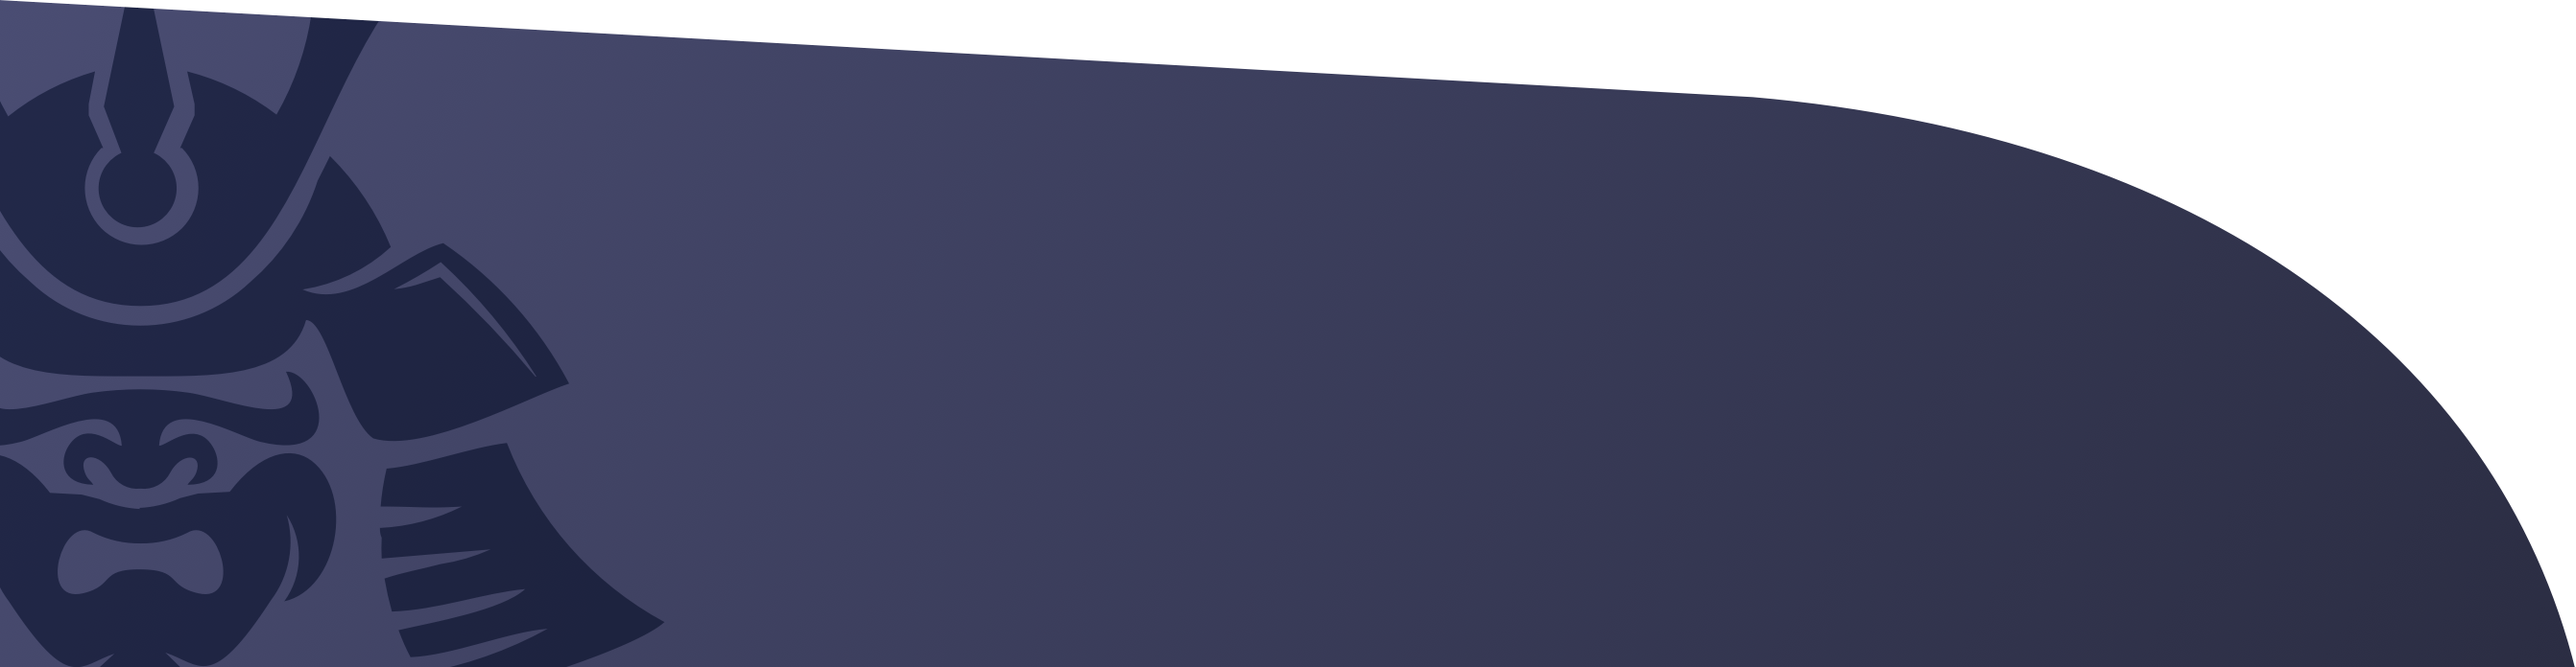
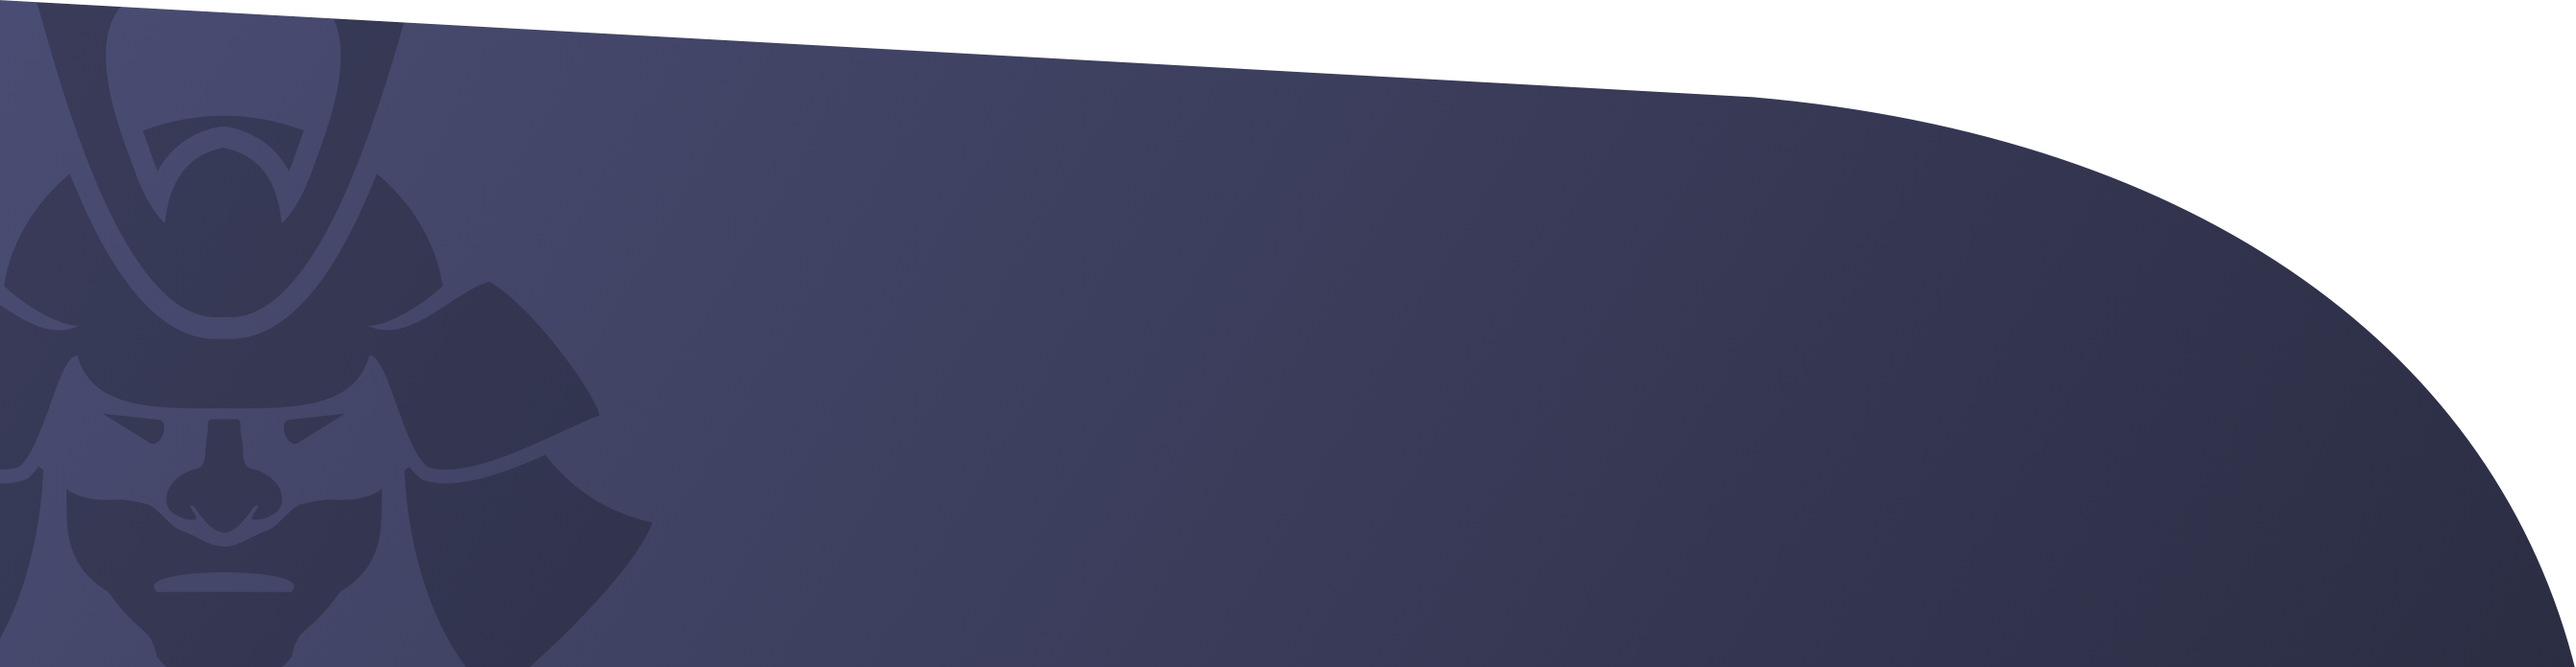
New color scheme applied.

Changed region(s): [[0.0, 0.5431, 0.2783, 1.0], [0.0, 0.0, 0.1855, 0.5129], [0.0, 0.5431, 0.0309, 0.5733]]

diff --git a/index.html b/index.html
@@ -32,7 +32,7 @@
 
     <nav class="navbar navbar-expand-md navbar-light bg-transparent standpoint_navbar p-0">
         <div class="container">
-            <a class="navbar-brand animate__animated animate__fadeIn animate_slower" href="#"><img class="main_logo" alt="Standpoint Mastering logo" src="img/logo.svg"> </a>
+            <a class="navbar-brand animate__animated animate__fadeIn animate_slower" href="#"><img class="main_logo" alt="Standpoint Mastering logo" src="img/STM_Logo_RGB.svg"> </a>
             <button class="navbar-toggler collapsed" type="button" data-toggle="collapse" data-target="#standpointCollapse" aria-controls="navbarSupportedContent" aria-expanded="false" aria-label="Toggle navigation">
                 <span class="icon-bar top-bar"></span>
                 <span class="icon-bar middle-bar"></span>
@@ -285,45 +285,45 @@
                     <div class="row justify-content-center all_works_holder">
                         <div class="col-md-6 col-sm-12 work_outerbox">
                             <div class="work embed-responsive embed-responsive-16by9">
-                                <iframe class="embed-responsive-item" width="100%" height="300" scrolling="no" frameborder="no" allow="autoplay" src="https://w.soundcloud.com/player/?url=https%3A//api.soundcloud.com/tracks/857914621&color=8D99AE&auto_play=false&hide_related=false&show_comments=true&show_user=true&show_reposts=false&show_teaser=true&visual=true"></iframe><div style="font-size: 10px; color: #cccccc;line-break: anywhere;word-break: normal;overflow: hidden;white-space: nowrap;text-overflow: ellipsis; font-family: Interstate,Lucida Grande,Lucida Sans Unicode,Lucida Sans,Garuda,Verdana,Tahoma,sans-serif;font-weight: 100;"><a href="https://soundcloud.com/fabienkamb" title="Fabien Kamb" target="_blank" style="color: #cccccc; text-decoration: none;"></a> · <a href="https://soundcloud.com/fabienkamb/premiere-fabien-kamb-circles-original-mix-low-flow-records" title="PREMIERE: Fabien Kamb - Circles (Original Mix) [LOW FLOW RECORDS]" target="_blank" style="color: #cccccc; text-decoration: none;"></a></div>
+                                <iframe class="soundcloud_thumb embed-responsive-item" width="100%" height="300" scrolling="no" frameborder="no" allow="autoplay" src="https://w.soundcloud.com/player/?url=https%3A//api.soundcloud.com/tracks/857914621&color=8D99AE&auto_play=false&hide_related=false&show_comments=true&show_user=true&show_reposts=false&show_teaser=true&visual=true"></iframe><div style="font-size: 10px; color: #cccccc;line-break: anywhere;word-break: normal;overflow: hidden;white-space: nowrap;text-overflow: ellipsis; font-family: Interstate,Lucida Grande,Lucida Sans Unicode,Lucida Sans,Garuda,Verdana,Tahoma,sans-serif;font-weight: 100;"><a href="https://soundcloud.com/fabienkamb" title="Fabien Kamb" target="_blank" style="color: #cccccc; text-decoration: none;"></a> · <a href="https://soundcloud.com/fabienkamb/premiere-fabien-kamb-circles-original-mix-low-flow-records" title="PREMIERE: Fabien Kamb - Circles (Original Mix) [LOW FLOW RECORDS]" target="_blank" style="color: #cccccc; text-decoration: none;"></a></div>
                             </div>
                         </div>
                         <div class="col-md-6 col-sm-12 work_outerbox">
                             <div class="work embed-responsive embed-responsive-16by9">
-                                <iframe class="embed-responsive-item" width="100%" height="300" scrolling="no" frameborder="no" allow="autoplay" src="https://w.soundcloud.com/player/?url=https%3A//api.soundcloud.com/tracks/45522647&color=8D99AE&auto_play=false&hide_related=false&show_comments=true&show_user=true&show_reposts=false&show_teaser=true&visual=true"></iframe><div style="font-size: 10px; color: #cccccc;line-break: anywhere;word-break: normal;overflow: hidden;white-space: nowrap;text-overflow: ellipsis; font-family: Interstate,Lucida Grande,Lucida Sans Unicode,Lucida Sans,Garuda,Verdana,Tahoma,sans-serif;font-weight: 100;"><a href="https://soundcloud.com/krummstoff" title="Krummstoff" target="_blank" style="color: #cccccc; text-decoration: none;"></a> · <a href="https://soundcloud.com/krummstoff/harlem-knights-all-about-house" title="Harlem Knights - All About House Music feat. Amalia (Bjorn Von Ezze dub) /Low Flow White/" target="_blank" style="color: #cccccc; text-decoration: none;"></a></div>
+                                <iframe class="soundcloud_thumb embed-responsive-item" width="100%" height="300" scrolling="no" frameborder="no" allow="autoplay" src="https://w.soundcloud.com/player/?url=https%3A//api.soundcloud.com/tracks/45522647&color=8D99AE&auto_play=false&hide_related=false&show_comments=true&show_user=true&show_reposts=false&show_teaser=true&visual=true"></iframe><div style="font-size: 10px; color: #cccccc;line-break: anywhere;word-break: normal;overflow: hidden;white-space: nowrap;text-overflow: ellipsis; font-family: Interstate,Lucida Grande,Lucida Sans Unicode,Lucida Sans,Garuda,Verdana,Tahoma,sans-serif;font-weight: 100;"><a href="https://soundcloud.com/krummstoff" title="Krummstoff" target="_blank" style="color: #cccccc; text-decoration: none;"></a> · <a href="https://soundcloud.com/krummstoff/harlem-knights-all-about-house" title="Harlem Knights - All About House Music feat. Amalia (Bjorn Von Ezze dub) /Low Flow White/" target="_blank" style="color: #cccccc; text-decoration: none;"></a></div>
                             </div>
                         </div>
 
                         <div class="col-md-6 col-sm-12 work_outerbox">
                             <div class="work">
-                                <iframe width="100%" height="300" scrolling="no" frameborder="no" allow="autoplay" src="https://w.soundcloud.com/player/?url=https%3A//api.soundcloud.com/tracks/36353995&color=8D99AE&auto_play=false&hide_related=false&show_comments=true&show_user=true&show_reposts=false&show_teaser=true&visual=true"></iframe><div style="font-size: 10px; color: #cccccc;line-break: anywhere;word-break: normal;overflow: hidden;white-space: nowrap;text-overflow: ellipsis; font-family: Interstate,Lucida Grande,Lucida Sans Unicode,Lucida Sans,Garuda,Verdana,Tahoma,sans-serif;font-weight: 100;"><a href="https://soundcloud.com/fabienkamb" title="Fabien Kamb" target="_blank" style="color: #cccccc; text-decoration: none;"></a> · <a href="https://soundcloud.com/fabienkamb/fabien-kamb-off-the-hills" title="Fabien Kamb - Off The Hills (Original Mix) || Plastic City" target="_blank" style="color: #cccccc; text-decoration: none;"></a></div>
+                                <iframe class="soundcloud_thumb embed-responsive-item" width="100%" height="300" scrolling="no" frameborder="no" allow="autoplay" src="https://w.soundcloud.com/player/?url=https%3A//api.soundcloud.com/tracks/36353995&color=8D99AE&auto_play=false&hide_related=false&show_comments=true&show_user=true&show_reposts=false&show_teaser=true&visual=true"></iframe><div style="font-size: 10px; color: #cccccc;line-break: anywhere;word-break: normal;overflow: hidden;white-space: nowrap;text-overflow: ellipsis; font-family: Interstate,Lucida Grande,Lucida Sans Unicode,Lucida Sans,Garuda,Verdana,Tahoma,sans-serif;font-weight: 100;"><a href="https://soundcloud.com/fabienkamb" title="Fabien Kamb" target="_blank" style="color: #cccccc; text-decoration: none;"></a> · <a href="https://soundcloud.com/fabienkamb/fabien-kamb-off-the-hills" title="Fabien Kamb - Off The Hills (Original Mix) || Plastic City" target="_blank" style="color: #cccccc; text-decoration: none;"></a></div>
                             </div>
                         </div>
                         <div class="col-md-6 col-sm-12 work_outerbox">
                             <div class="work">
-                                <iframe width="100%" height="300" scrolling="no" frameborder="no" allow="autoplay" src="https://w.soundcloud.com/player/?url=https%3A//api.soundcloud.com/tracks/885714&color=8D99AE&auto_play=false&hide_related=false&show_comments=true&show_user=true&show_reposts=false&show_teaser=true&visual=true"></iframe><div style="font-size: 10px; color: #cccccc;line-break: anywhere;word-break: normal;overflow: hidden;white-space: nowrap;text-overflow: ellipsis; font-family: Interstate,Lucida Grande,Lucida Sans Unicode,Lucida Sans,Garuda,Verdana,Tahoma,sans-serif;font-weight: 100;"><a href="https://soundcloud.com/fabienkamb" title="Fabien Kamb" target="_blank" style="color: #cccccc; text-decoration: none;"></a> · <a href="https://soundcloud.com/fabienkamb/fabien-kamb-subtle-original-mix" title="Fabien Kamb - Subtle (Original Mix) || Low Flow Records" target="_blank" style="color: #cccccc; text-decoration: none;"></a></div>
-                            </div>
-                        </div>
-
-                        <div class="col-md-6 col-sm-12 work_outerbox">
-                            <div class="work">
-                                <iframe width="100%" height="300" scrolling="no" frameborder="no" allow="autoplay" src="https://w.soundcloud.com/player/?url=https%3A//api.soundcloud.com/tracks/1358981&color=8D99AE&auto_play=false&hide_related=false&show_comments=true&show_user=true&show_reposts=false&show_teaser=true&visual=true"></iframe><div style="font-size: 10px; color: #cccccc;line-break: anywhere;word-break: normal;overflow: hidden;white-space: nowrap;text-overflow: ellipsis; font-family: Interstate,Lucida Grande,Lucida Sans Unicode,Lucida Sans,Garuda,Verdana,Tahoma,sans-serif;font-weight: 100;"><a href="https://soundcloud.com/krummstoff" title="Krummstoff" target="_blank" style="color: #cccccc; text-decoration: none;"></a> · <a href="https://soundcloud.com/krummstoff/krummstoff-pink-avenue-original-mix" title="Krummstoff - Pink Avenue (original mix) /DeepClass Records/" target="_blank" style="color: #cccccc; text-decoration: none;"></a></div>
-                            </div>
-                        </div>
-                        <div class="col-md-6 col-sm-12 work_outerbox">
-                            <div class="work">
-                                <iframe width="100%" height="300" scrolling="no" frameborder="no" allow="autoplay" src="https://w.soundcloud.com/player/?url=https%3A//api.soundcloud.com/tracks/8798735&color=8D99AE&auto_play=false&hide_related=false&show_comments=true&show_user=true&show_reposts=false&show_teaser=true&visual=true"></iframe><div style="font-size: 10px; color: #cccccc;line-break: anywhere;word-break: normal;overflow: hidden;white-space: nowrap;text-overflow: ellipsis; font-family: Interstate,Lucida Grande,Lucida Sans Unicode,Lucida Sans,Garuda,Verdana,Tahoma,sans-serif;font-weight: 100;"><a href="https://soundcloud.com/symetrique-emotions" title="Symetrique Emotions" target="_blank" style="color: #cccccc; text-decoration: none;"></a> · <a href="https://soundcloud.com/symetrique-emotions/warm-8-deep-in-passion" title="WARM 8 - Deep In Passion" target="_blank" style="color: #cccccc; text-decoration: none;"></a></div>
+                                <iframe class="soundcloud_thumb embed-responsive-item" width="100%" height="300" scrolling="no" frameborder="no" allow="autoplay" src="https://w.soundcloud.com/player/?url=https%3A//api.soundcloud.com/tracks/885714&color=8D99AE&auto_play=false&hide_related=false&show_comments=true&show_user=true&show_reposts=false&show_teaser=true&visual=true"></iframe><div style="font-size: 10px; color: #cccccc;line-break: anywhere;word-break: normal;overflow: hidden;white-space: nowrap;text-overflow: ellipsis; font-family: Interstate,Lucida Grande,Lucida Sans Unicode,Lucida Sans,Garuda,Verdana,Tahoma,sans-serif;font-weight: 100;"><a href="https://soundcloud.com/fabienkamb" title="Fabien Kamb" target="_blank" style="color: #cccccc; text-decoration: none;"></a> · <a href="https://soundcloud.com/fabienkamb/fabien-kamb-subtle-original-mix" title="Fabien Kamb - Subtle (Original Mix) || Low Flow Records" target="_blank" style="color: #cccccc; text-decoration: none;"></a></div>
                             </div>
                         </div>
 
                         <div class="col-md-6 col-sm-12 work_outerbox">
                             <div class="work">
-                                <iframe width="100%" height="300" scrolling="no" frameborder="no" allow="autoplay" src="https://w.soundcloud.com/player/?url=https%3A//api.soundcloud.com/tracks/165823130&color=8D99AE&auto_play=false&hide_related=false&show_comments=true&show_user=true&show_reposts=false&show_teaser=true&visual=true"></iframe><div style="font-size: 10px; color: #cccccc;line-break: anywhere;word-break: normal;overflow: hidden;white-space: nowrap;text-overflow: ellipsis; font-family: Interstate,Lucida Grande,Lucida Sans Unicode,Lucida Sans,Garuda,Verdana,Tahoma,sans-serif;font-weight: 100;"><a href="https://soundcloud.com/fabienkamb" title="Fabien Kamb" target="_blank" style="color: #cccccc; text-decoration: none;"></a> · <a href="https://soundcloud.com/fabienkamb/a2-fabien-kamb-free-master" title="Fabien Kamb - Free (Original Mix) || Ready Mix Records" target="_blank" style="color: #cccccc; text-decoration: none;"></a></div>
+                                <iframe class="soundcloud_thumb embed-responsive-item" width="100%" height="300" scrolling="no" frameborder="no" allow="autoplay" src="https://w.soundcloud.com/player/?url=https%3A//api.soundcloud.com/tracks/1358981&color=8D99AE&auto_play=false&hide_related=false&show_comments=true&show_user=true&show_reposts=false&show_teaser=true&visual=true"></iframe><div style="font-size: 10px; color: #cccccc;line-break: anywhere;word-break: normal;overflow: hidden;white-space: nowrap;text-overflow: ellipsis; font-family: Interstate,Lucida Grande,Lucida Sans Unicode,Lucida Sans,Garuda,Verdana,Tahoma,sans-serif;font-weight: 100;"><a href="https://soundcloud.com/krummstoff" title="Krummstoff" target="_blank" style="color: #cccccc; text-decoration: none;"></a> · <a href="https://soundcloud.com/krummstoff/krummstoff-pink-avenue-original-mix" title="Krummstoff - Pink Avenue (original mix) /DeepClass Records/" target="_blank" style="color: #cccccc; text-decoration: none;"></a></div>
                             </div>
                         </div>
                         <div class="col-md-6 col-sm-12 work_outerbox">
                             <div class="work">
-                                <iframe width="100%" height="300" scrolling="no" frameborder="no" allow="autoplay" src="https://w.soundcloud.com/player/?url=https%3A//api.soundcloud.com/tracks/3448154&color=8D99AE&auto_play=false&hide_related=false&show_comments=true&show_user=true&show_reposts=false&show_teaser=true&visual=true"></iframe><div style="font-size: 10px; color: #cccccc;line-break: anywhere;word-break: normal;overflow: hidden;white-space: nowrap;text-overflow: ellipsis; font-family: Interstate,Lucida Grande,Lucida Sans Unicode,Lucida Sans,Garuda,Verdana,Tahoma,sans-serif;font-weight: 100;"><a href="https://soundcloud.com/mad-and-spectral" title="Mad and Spectral" target="_blank" style="color: #cccccc; text-decoration: none;"></a> · <a href="https://soundcloud.com/mad-and-spectral/mad-and-spectral-what-do-you-say-original-mix" title="What Do You Say (original mix) /Low Flow White/" target="_blank" style="color: #cccccc; text-decoration: none;"></a></div>
+                                <iframe class="soundcloud_thumb embed-responsive-item" width="100%" height="300" scrolling="no" frameborder="no" allow="autoplay" src="https://w.soundcloud.com/player/?url=https%3A//api.soundcloud.com/tracks/8798735&color=8D99AE&auto_play=false&hide_related=false&show_comments=true&show_user=true&show_reposts=false&show_teaser=true&visual=true"></iframe><div style="font-size: 10px; color: #cccccc;line-break: anywhere;word-break: normal;overflow: hidden;white-space: nowrap;text-overflow: ellipsis; font-family: Interstate,Lucida Grande,Lucida Sans Unicode,Lucida Sans,Garuda,Verdana,Tahoma,sans-serif;font-weight: 100;"><a href="https://soundcloud.com/symetrique-emotions" title="Symetrique Emotions" target="_blank" style="color: #cccccc; text-decoration: none;"></a> · <a href="https://soundcloud.com/symetrique-emotions/warm-8-deep-in-passion" title="WARM 8 - Deep In Passion" target="_blank" style="color: #cccccc; text-decoration: none;"></a></div>
+                            </div>
+                        </div>
+
+                        <div class="col-md-6 col-sm-12 work_outerbox">
+                            <div class="work">
+                                <iframe class="soundcloud_thumb embed-responsive-item" width="100%" height="300" scrolling="no" frameborder="no" allow="autoplay" src="https://w.soundcloud.com/player/?url=https%3A//api.soundcloud.com/tracks/165823130&color=8D99AE&auto_play=false&hide_related=false&show_comments=true&show_user=true&show_reposts=false&show_teaser=true&visual=true"></iframe><div style="font-size: 10px; color: #cccccc;line-break: anywhere;word-break: normal;overflow: hidden;white-space: nowrap;text-overflow: ellipsis; font-family: Interstate,Lucida Grande,Lucida Sans Unicode,Lucida Sans,Garuda,Verdana,Tahoma,sans-serif;font-weight: 100;"><a href="https://soundcloud.com/fabienkamb" title="Fabien Kamb" target="_blank" style="color: #cccccc; text-decoration: none;"></a> · <a href="https://soundcloud.com/fabienkamb/a2-fabien-kamb-free-master" title="Fabien Kamb - Free (Original Mix) || Ready Mix Records" target="_blank" style="color: #cccccc; text-decoration: none;"></a></div>
+                            </div>
+                        </div>
+                        <div class="col-md-6 col-sm-12 work_outerbox">
+                            <div class="work">
+                                <iframe class="soundcloud_thumb embed-responsive-item" width="100%" height="300" scrolling="no" frameborder="no" allow="autoplay" src="https://w.soundcloud.com/player/?url=https%3A//api.soundcloud.com/tracks/3448154&color=8D99AE&auto_play=false&hide_related=false&show_comments=true&show_user=true&show_reposts=false&show_teaser=true&visual=true"></iframe><div style="font-size: 10px; color: #cccccc;line-break: anywhere;word-break: normal;overflow: hidden;white-space: nowrap;text-overflow: ellipsis; font-family: Interstate,Lucida Grande,Lucida Sans Unicode,Lucida Sans,Garuda,Verdana,Tahoma,sans-serif;font-weight: 100;"><a href="https://soundcloud.com/mad-and-spectral" title="Mad and Spectral" target="_blank" style="color: #cccccc; text-decoration: none;"></a> · <a href="https://soundcloud.com/mad-and-spectral/mad-and-spectral-what-do-you-say-original-mix" title="What Do You Say (original mix) /Low Flow White/" target="_blank" style="color: #cccccc; text-decoration: none;"></a></div>
                             </div>
                         </div>
                     </div>

diff --git a/css/standpoint.css b/css/standpoint.css
@@ -105,6 +105,12 @@ input:disabled, input[disabled] {
 
 /* =========== NAVBAR =========== */
 
+img.main_logo {
+    position: relative;
+    width: 7rem;
+    top: 2px;
+}
+
 .standpoint_navbar {
     position: absolute;
     z-index: 2;
@@ -142,7 +148,7 @@ a.stnd_menu_link:after {
     margin: 0 auto;
     width: 96%;
     height: 2px;
-    background: #28293E;
+    background: #8D99AE;
     content: '';
     opacity: 0;
     -webkit-transition: opacity 0.3s, -webkit-transform 0.3s;
@@ -188,7 +194,7 @@ a.stnd_menu_link:hover::after, a.stnd_menu_link:focus::after {
 .h_banner_holder {
     position: absolute;
     top: 33%;
-    width: 45%;
+    width: 45rem;
 }
 
 .h_banner h1 {
@@ -468,8 +474,8 @@ ul.about_socials li a:hover:before {
 }
 
 .s_two {
-    background: rgb(194,209,214);
-    background: linear-gradient(180deg, rgba(194,209,214,1) 0%, rgba(141,153,174,1) 100%, rgba(255,255,255,1) 150%);
+    background: rgb(205,219,223);
+    background: linear-gradient(180deg, rgba(205,219,223,1) 0%, rgba(141,153,174,1) 100%, rgba(255,255,255,1) 150%);
 }
 
 .s_three {
@@ -639,6 +645,10 @@ ul.eq_list li::before {
     background-size: contain;
 }
 
+.soundcloud_thumb {
+    border-radius: 8px;
+}
+
 
 
 
@@ -758,23 +768,17 @@ button.submit_btn:focus {
 
 /* =========== FOOTER =========== */
 
-.footer_wrapper {
-    min-height: 100%;
-    height: 200px;
-    position: relative;
-}
-
 .standpoint_footer {
     position: absolute;
-    flex: 1 0 auto;
     z-index: 5;
     right: 0;
     bottom: 0;
     left: 0;
     width: 100%;
-    height: 375px;
+    min-height: 375px;
+    height: auto;
 
-    background: url("../img/footer_itself_2.png") center center no-repeat;
+    background: url("../img/footer_itself_2.png") no-repeat;
     background-size: cover;
 }
 

diff --git a/css/mq.css b/css/mq.css
@@ -28,7 +28,9 @@
 
 
 
-
+@media screen and (min-width: 1900px){
+    .h_banner_holder {width: 45rem;}
+}
 
 @media screen and (max-width: 1356px){
     .h_banner h1 {font-size: 6rem;}
@@ -51,7 +53,7 @@
 }
 
 @media screen and (max-width: 883px){
-    .header_shape {top: -20%;}
+    .header_shape {top: -69rem;}
     .sphere {height: 355px;}
     .standpoint_header {min-height: 600px;}
 }
@@ -72,6 +74,8 @@
     .section_center_text {width: 95%;}
 
     .equipment_list_holder {width: 50%; margin: 0 auto;}
+
+    a.stnd_menu_link:after {height: 1px;}
 }
 
 @media screen and (max-width: 710px){
@@ -107,11 +111,10 @@
 @media screen and (max-width: 460px){
     .h_banner_holder {width: 94%;}
     .h_banner h1 {font-size: 3.6rem;}
-    .header_shape {top: -33%;}
+    .header_shape {top: -69rem;}
 
     .garry {height: 250px;}
 
-    .header_shape {top: -29%;}
     .h_banner_holder {top: 40%;}
     .sphere {top: 26%;}
 }
